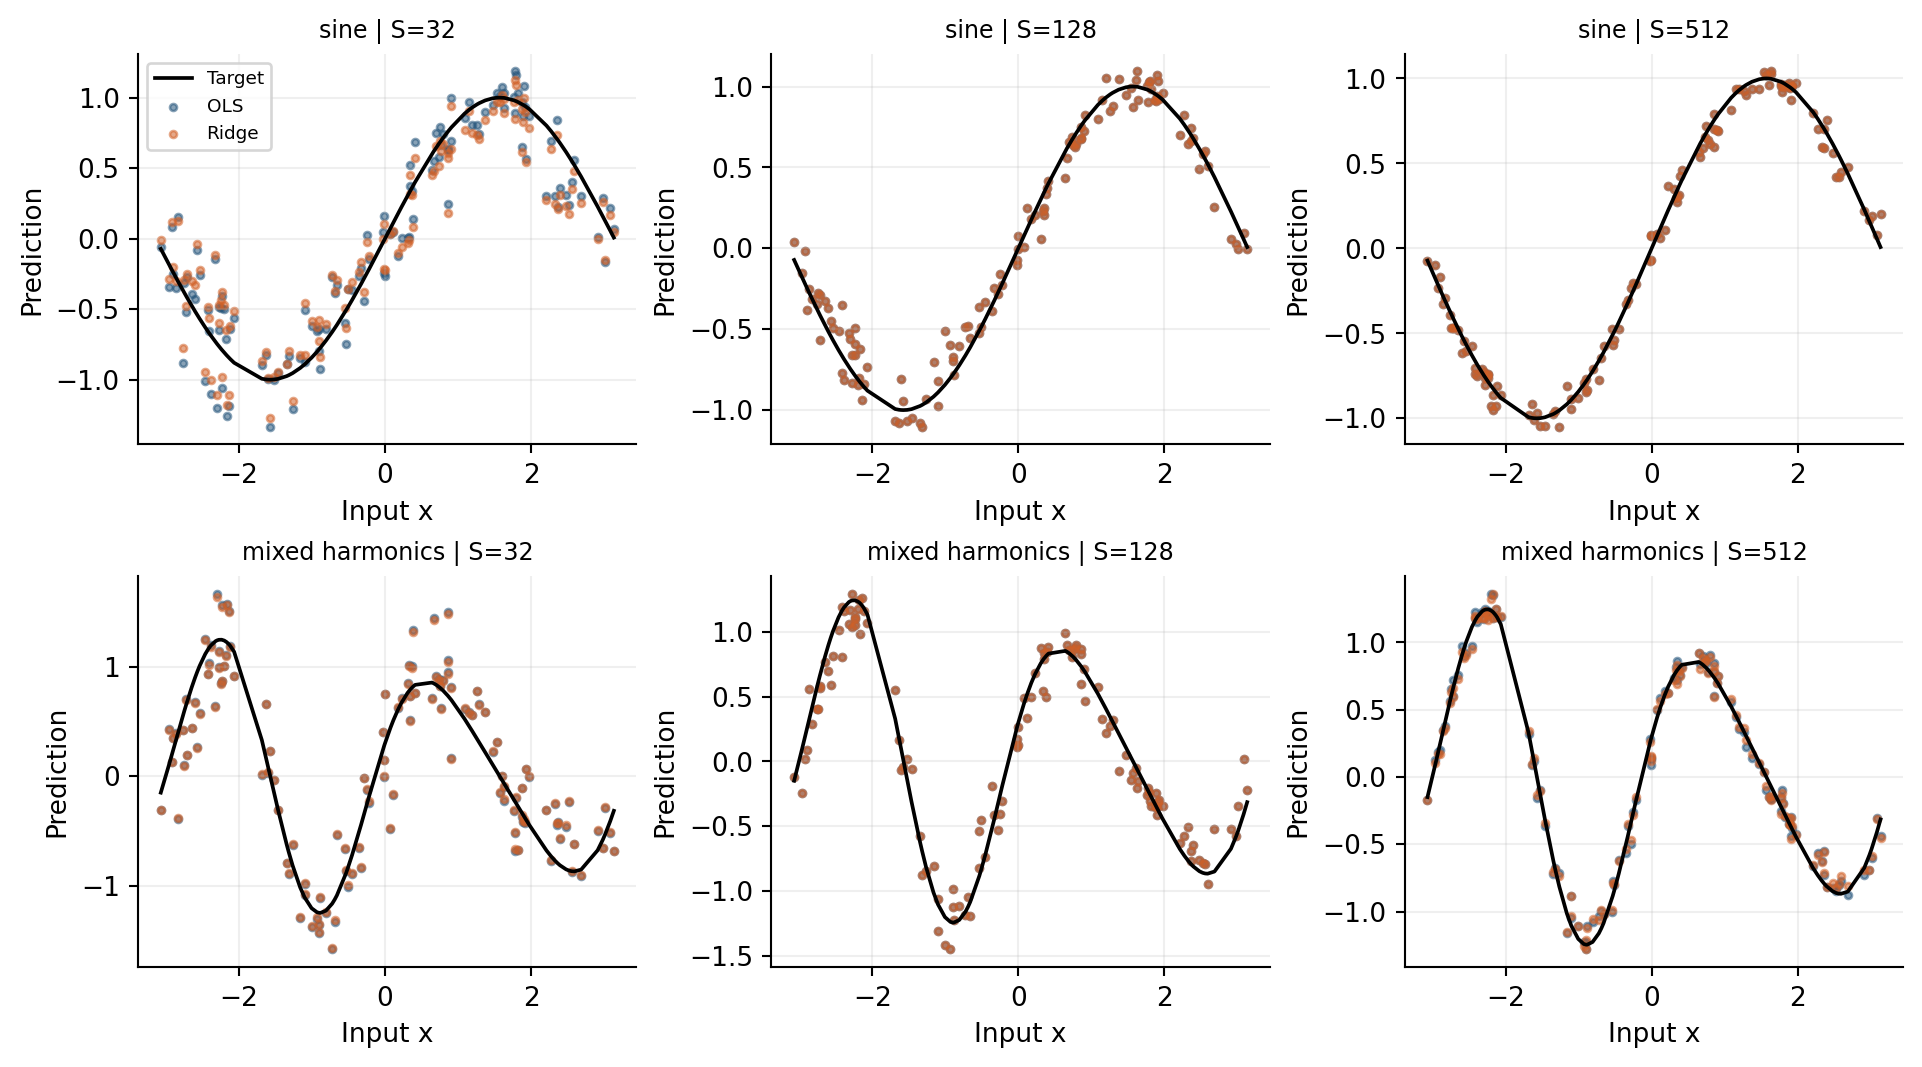
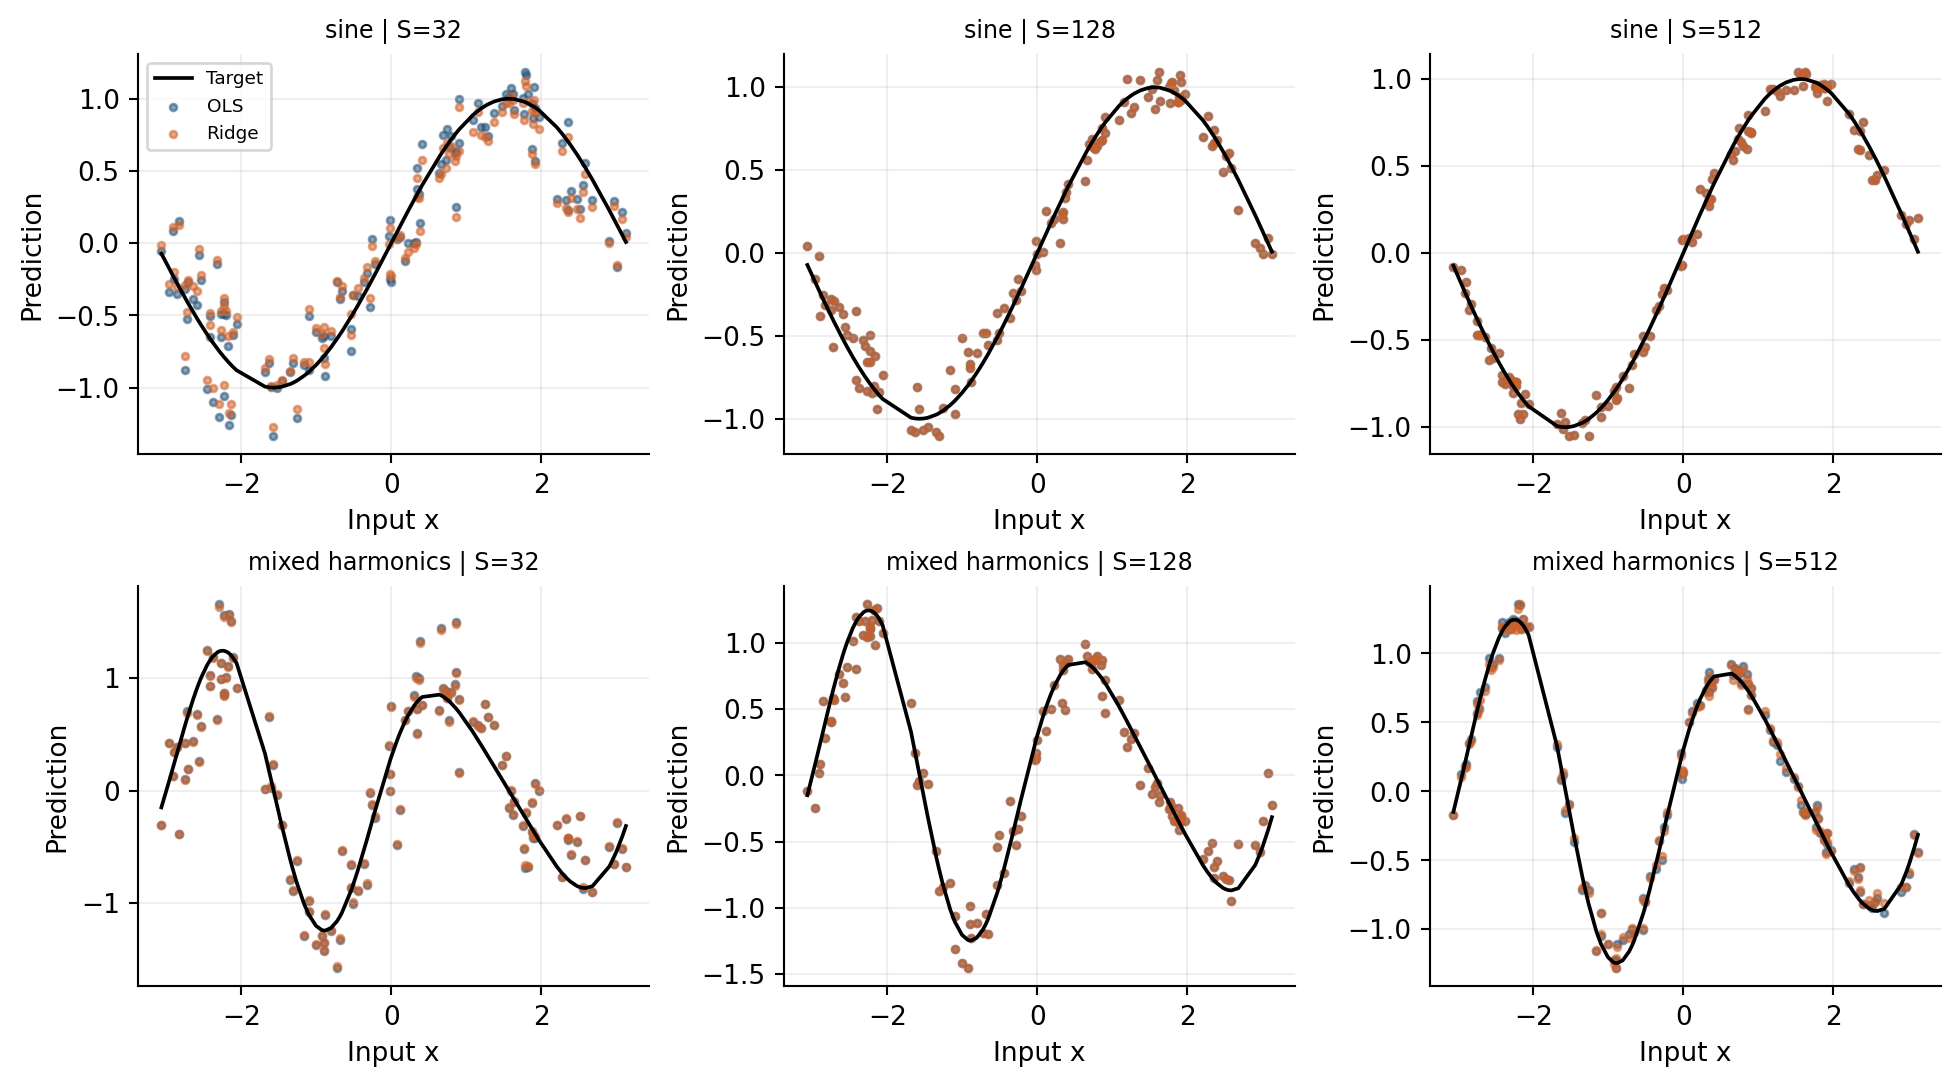
Drive figures from saved configuration and refresh verified artifacts

diff --git a/scripts/make_figures.py b/scripts/make_figures.py
@@ -25,14 +25,20 @@ def save(fig, directory, name):
 
 
 def main(result_dir, figure_dir):
+    config = json.loads((result_dir / "config.json").read_text())
+    tasks = config["tasks"]
+    shot_levels = config["shots_per_setting"]
+    example_ds, example_ms = config["data_seeds"][0], config["measurement_seeds"][0]
+    boundary = config["n_train"] + config["n_validation"]
     figure_dir.mkdir(parents=True, exist_ok=True)
     result = summarise(result_dir)
     rows = result["summary"]
     plt.rcParams.update({"font.size": 10, "axes.spines.top": False, "axes.spines.right": False,
                          "axes.grid": True, "grid.alpha": 0.2, "pdf.fonttype": 42})
-    tasks = ["sine", "mixed_harmonics"]
-    for noise, name in [(0.0, "test_mse_clean"), (0.1, "test_mse_noisy")]:
-        fig, axes = plt.subplots(1, 2, figsize=(9, 3.6), constrained_layout=True)
+    for noise in config["label_noise_stds"]:
+        name = "test_mse_clean" if noise == 0 else ("test_mse_noisy" if noise == 0.1 else f"test_mse_noise_{noise:g}")
+        fig, axes = plt.subplots(1, len(tasks), figsize=(4.5*len(tasks), 3.6), constrained_layout=True, squeeze=False)
+        axes = axes.ravel()
         for ax, task in zip(axes, tasks):
             for method in ["OLS", "Ridge"]:
                 subset = sorted([r for r in rows if r["task"] == task and r["label_noise_std"] == noise and r["shots"] > 0 and r["method"] == method], key=lambda r:r["shots"])
@@ -41,13 +47,14 @@ def main(result_dir, figure_dir):
                 exact = next(r for r in rows if (r["task"], r["label_noise_std"], r["shots"], r["method"]) == (task, noise, 0, method))
                 ax.axhline(exact["test_mse_mean"], color=COLORS[method], linestyle="--", alpha=0.7, label=f"{method}, exact features")
             ax.set_xscale("log", base=2)
-            ax.set_xticks([32, 128, 512], ["32", "128", "512"])
+            ax.set_xticks(shot_levels, [str(s) for s in shot_levels])
             ax.set_xlabel("Shots per setting (3 settings per input)")
             ax.set_ylabel("Test MSE against latent target")
             ax.set_title(task.replace("_", " ").title())
             ax.legend(fontsize=7)
         save(fig, figure_dir, name)
-    fig, axes = plt.subplots(1, 2, figsize=(9, 3.4), constrained_layout=True)
+    fig, axes = plt.subplots(1, len(tasks), figsize=(4.5*len(tasks), 3.4), constrained_layout=True, squeeze=False)
+    axes = axes.ravel()
     for ax, task in zip(axes, tasks):
         for method in ["OLS", "Ridge"]:
             subset = sorted([r for r in rows if r["task"] == task and r["label_noise_std"] == 0 and r["shots"] > 0 and r["method"] == method], key=lambda r:r["shots"])
@@ -55,17 +62,17 @@ def main(result_dir, figure_dir):
                         yerr=[r["coefficient_norm_sd"] for r in subset], label=method,
                         color=COLORS[method], marker="o", capsize=4)
         ax.set_xscale("log", base=2)
-        ax.set_xticks([32,128,512], ["32","128","512"])
+        ax.set_xticks(shot_levels, [str(s) for s in shot_levels])
         ax.set_xlabel("Shots per measurement setting")
         ax.set_ylabel("Coefficient norm in standardized coordinates")
         ax.set_title(task.replace("_", " ").title())
         ax.legend()
     save(fig, figure_dir, "coefficient_norms")
     # Feature precision depends only on acquisition, not the downstream target.
-    subset = sorted([r for r in rows if (r["task"], r["label_noise_std"], r["method"]) == ("sine", 0, "OLS") and r["shots"] > 0], key=lambda r:r["shots"])
+    subset = sorted([r for r in rows if (r["task"], r["label_noise_std"], r["method"]) == (tasks[0], 0, "OLS") and r["shots"] > 0], key=lambda r:r["shots"])
     shots = np.array([r["shots"] for r in subset])
     observed = np.array([r["feature_mse_mean"] for r in subset])
-    ideals = [np.load(result_dir / "raw" / f"inputs_d{seed}.npz")["ideal_features"] for seed in [11,22,33,44,55]]
+    ideals = [np.load(result_dir / "raw" / f"inputs_d{seed}.npz")["ideal_features"] for seed in config["data_seeds"]]
     theoretical = float(np.mean([np.mean(1 - x*x) for x in ideals])) / shots
     fig, ax = plt.subplots(figsize=(6, 3.4), constrained_layout=True)
     ax.errorbar(shots, observed, yerr=[r["feature_mse_sd"] for r in subset], marker="o", capsize=4, label="Observed feature MSE")
@@ -77,16 +84,16 @@ def main(result_dir, figure_dir):
     save(fig, figure_dir, "feature_precision")
     # Example fixed in advance: first listed data and measurement seed, both tasks.
     predictions = json.loads((result_dir / "predictions.json").read_text())
-    inputs = np.load(result_dir / "raw/inputs_d11.npz")["x"][96:]
+    inputs = np.load(result_dir / "raw" / f"inputs_d{example_ds}.npz")["x"][boundary:]
     order = np.argsort(inputs)
-    fig, axes = plt.subplots(2, 3, figsize=(10, 5.5), constrained_layout=True)
+    fig, axes = plt.subplots(len(tasks), len(shot_levels), figsize=(3.4*len(shot_levels), 2.8*len(tasks)), constrained_layout=True, squeeze=False)
     for i, task in enumerate(tasks):
-        target = np.load(result_dir / "raw" / f"labels_{task}_noise0_d11.npz")["latent"][96:]
-        for j, shots in enumerate([32, 128, 512]):
+        target = np.load(result_dir / "raw" / f"labels_{task}_noise0_d{example_ds}.npz")["latent"][boundary:]
+        for j, shots in enumerate(shot_levels):
             ax = axes[i,j]
             ax.plot(inputs[order], target[order], color="black", label="Target", linewidth=1.4)
             for method in ["OLS", "Ridge"]:
-                r = next(r for r in predictions if (r["task"],r["label_noise_std"],r["data_seed"],r["measurement_seed"],r["shots"],r["method"]) == (task,0,11,101,shots,method))
+                r = next(r for r in predictions if (r["task"],r["label_noise_std"],r["data_seed"],r["measurement_seed"],r["shots"],r["method"]) == (task,0,example_ds,example_ms,shots,method))
                 ax.scatter(inputs, r["prediction"], s=7, alpha=0.55, color=COLORS[method], label=method)
             ax.set_title(f"{task.replace('_',' ')} | S={shots}",fontsize=9)
             ax.set_xlabel("Input x");ax.set_ylabel("Prediction")
@@ -121,7 +128,7 @@ def main(result_dir, figure_dir):
     ax.text(7.3,1.32,"CZ",ha="center",fontsize=8)
     ax.text(5,-0.5,"Independent XX, YY and ZZ settings; each yields two singles and one pair feature.",ha="center",fontsize=9)
     save(fig,figure_dir,"quantum_circuit")
-    print(f"Generated seven figure pairs and summaries in {figure_dir}")
+    print(f"Generated {len(config['label_noise_stds']) + 5} figure pairs and summaries in {figure_dir}")
 
 
 if __name__ == "__main__":

diff --git a/tests/test_plot_pipeline.py b/tests/test_plot_pipeline.py
@@ -1,0 +1,29 @@
+import json
+from pathlib import Path
+import sys
+import pytest
+ROOT=Path(__file__).resolve().parents[1]
+sys.path.insert(0,str(ROOT/"scripts"))
+
+
+def test_full_pipeline_uses_changed_config_for_plots(tmp_path):
+    import subprocess
+    config=json.loads((ROOT/"configs/semester.json").read_text())
+    config.update(tasks=["sine"], label_noise_stds=[0], n_train=24, n_validation=12,
+                  n_test=16, data_seeds=[71,82], measurement_seeds=[93], shots_per_setting=[8,16])
+    configuration=tmp_path/"custom.json"
+    configuration.write_text(json.dumps(config))
+    results=tmp_path/"custom_results"
+    figures=tmp_path/"custom_figures"
+    for command in [
+        ["run_study.py","--config",str(configuration),"--output",str(results)],
+        ["make_figures.py","--results",str(results),"--figures",str(figures)],
+        ["deep_audit.py","--results",str(results)],
+    ]:
+        completed=subprocess.run([sys.executable,str(ROOT/"scripts"/command[0]),*command[1:]],capture_output=True,text=True)
+        assert completed.returncode==0,completed.stdout+completed.stderr
+    assert len(list(figures.glob("*.png")))==6
+    summary=json.loads((results/"summary.json").read_text())
+    assert all(row["n_data_seeds"]==2 for row in summary["summary"])
+    assert "five" not in summary["uncertainty"]
+    assert json.loads((results/"deep_audit.json").read_text())["independent_numpy_fits"]==12

diff --git a/src/qml_project/analysis.py b/src/qml_project/analysis.py
@@ -64,7 +64,7 @@ def summarise(result_dir):
                                         n_data_seeds=len(values)))
     write_csv(result_dir / "paired_comparisons.csv", comparisons)
     payload = dict(summary=summaries, paired_comparisons=comparisons,
-                   uncertainty="SD over five dataset-level means after averaging measurement repetitions. Descriptive, not confidence intervals or independent 25-run hypothesis tests.")
+                   uncertainty="Sample SD over dataset-level means after averaging acquisition repetitions. Descriptive, not confidence intervals; acquisitions sharing a dataset are not independent datasets.")
     (result_dir / "summary.json").write_text(json.dumps(payload, indent=2) + "\n")
     return payload
 
